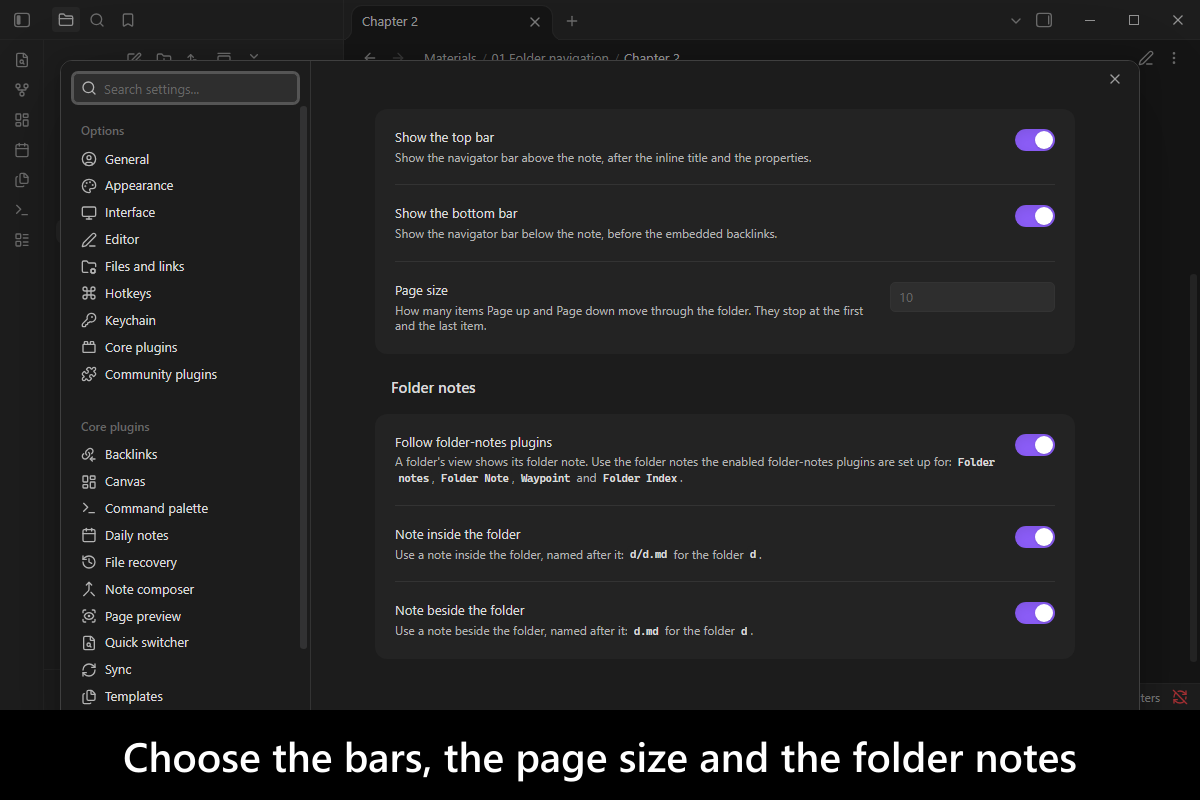
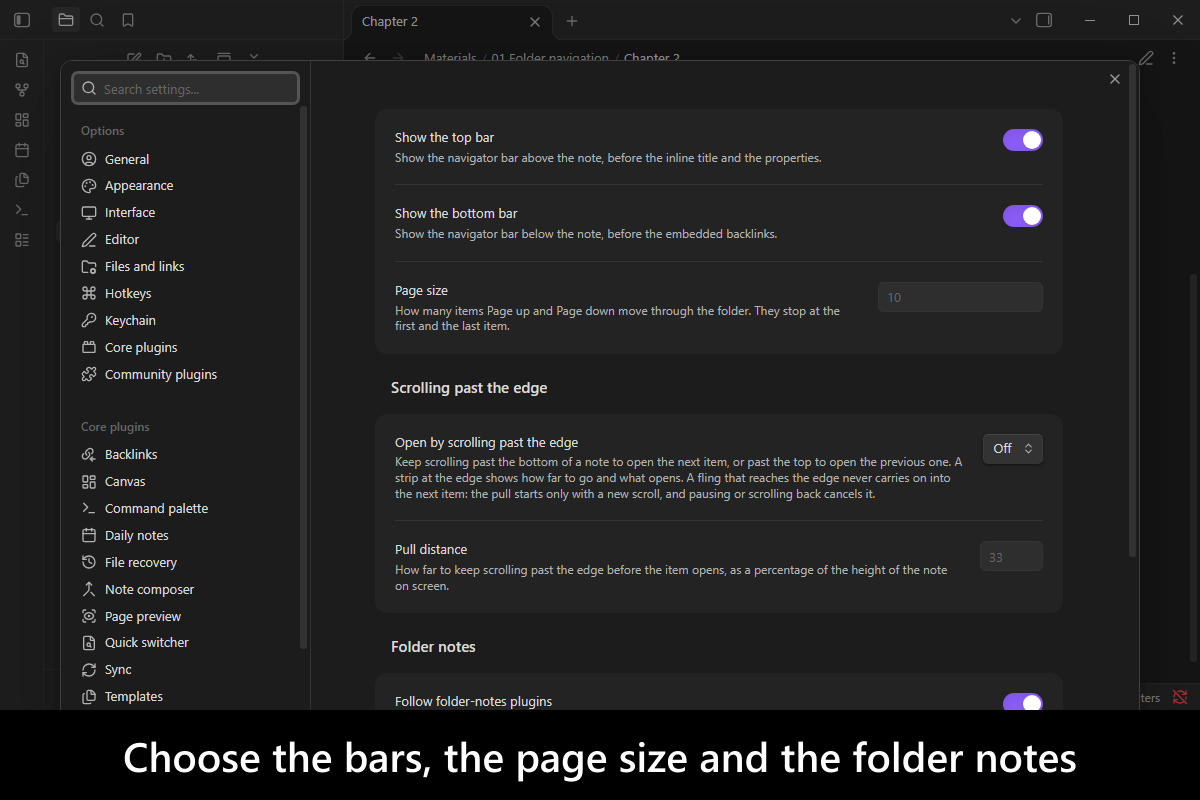
feat: put the top navigator bar above the inline title and properties
In the editor the top bar is now the first child of .cm-sizer, and in
Reading view the first child of the renderer's header, matching the
virtual folder note. The screenshots are refreshed: they had been taken
before the 06 demo note existed.

diff --git a/src/navigator-bar.cross-platform.integration.test.ts b/src/navigator-bar.cross-platform.integration.test.ts
@@ -1,6 +1,10 @@
-import type { FileExplorerView } from '@obsidian-typings/obsidian-public-latest';
+import type {
+  ConfigItem,
+  FileExplorerView
+} from '@obsidian-typings/obsidian-public-latest';
 import type { CommonArguments } from 'obsidian-integration-testing';
 
+import { setTimeout } from 'node:timers/promises';
 import {
   evalInObsidian,
   pollInObsidian
@@ -29,12 +33,14 @@ interface BarState {
   readonly bottomBarGap: number;
   readonly editorContentPadding: string;
   readonly editorOrder: string[];
+  readonly isSourceMode: boolean;
   readonly mode: string;
   readonly readingFooterOrder: string[];
   readonly readingHeaderOrder: string[];
   readonly top: BarSnapshot | null;
 }
 
+const CONFIG_SETTLE_DELAY_IN_MILLISECONDS = 500;
 const FOLDER = 'sn-bar';
 const POLL_TIMEOUT_IN_MILLISECONDS = 20_000;
 
@@ -112,14 +118,44 @@ describe('navigator bar', () => {
     let isTopBarHidden = false;
     try {
       const atFirst = await waitForState('the bars in the editor', (state) => state.top?.position === '1 / 3' && state.bottom !== null);
-      expect(atFirst.editorOrder).toStrictEqual(['inline-title', 'metadata-container', 'bar:top', 'cm-contentContainer', 'bar:bottom', 'embedded-backlinks']);
+      expect(atFirst.editorOrder).toStrictEqual(['bar:top', 'inline-title', 'metadata-container', 'cm-contentContainer', 'bar:bottom', 'embedded-backlinks']);
       // The scroll-past-end space moved from below the last line to below the bottom bar.
       expect(atFirst.editorContentPadding).toBe('0px');
       expect(atFirst.bottomBarGap).toBeLessThan(50);
       expect(atFirst.top).toStrictEqual({ disabled: ['home', 'pageUp', 'previous'], position: '1 / 3' });
 
       await clickBarButton('top', 'next');
-      await waitForState('Next from the top bar', (state) => state.activePath === `${FOLDER}/b.md` && state.top?.position === '2 / 3');
+      const atSecond = await waitForState('Next from the top bar', (state) => state.activePath === `${FOLDER}/b.md` && state.top?.position === '2 / 3');
+      expect(atSecond.editorOrder[0]).toBe('bar:top');
+
+      // The top bar stays first whatever Obsidian re-renders above the note.
+      for (
+        const [name, value] of [
+          ['showInlineTitle', false],
+          ['propertiesInDocument', 'hidden'],
+          ['readableLineLength', false],
+          ['showInlineTitle', true],
+          ['propertiesInDocument', 'visible'],
+          ['readableLineLength', true]
+        ] as const
+      ) {
+        await setConfig(name, value);
+        const afterConfig = await waitForState(`the top bar after ${name} = ${String(value)}`, (state) => state.top !== null);
+        expect(afterConfig.editorOrder.slice(0, 3)).toStrictEqual(['bar:top', 'inline-title', 'metadata-container']);
+      }
+
+      await evalInObsidian({
+        async callback({ app }): Promise<void> {
+          const view = app.workspace.getMostRecentLeaf()?.view;
+          if (!view) {
+            throw new Error('No view.');
+          }
+          await view.setState({ ...view.getState(), mode: 'source', source: true }, { history: false });
+        },
+        vaultPath
+      });
+      const sourceMode = await waitForState('the bars in Source mode', (state) => state.isSourceMode && state.top !== null);
+      expect(sourceMode.editorOrder[0]).toBe('bar:top');
 
       await evalInObsidian({
         async callback({ app }): Promise<void> {
@@ -132,7 +168,7 @@ describe('navigator bar', () => {
         vaultPath
       });
       const reading = await waitForState('the bars in Reading view', (state) => state.mode === 'preview' && state.readingHeaderOrder.includes('bar:top') && state.readingFooterOrder.includes('bar:bottom'));
-      expect(reading.readingHeaderOrder).toStrictEqual(['inline-title', 'metadata-container', 'bar:top']);
+      expect(reading.readingHeaderOrder).toStrictEqual(['bar:top', 'inline-title', 'metadata-container']);
       expect(reading.readingFooterOrder).toStrictEqual(['bar:bottom', 'embedded-backlinks']);
 
       await clickBarButton('bottom', 'next');
@@ -161,6 +197,18 @@ describe('navigator bar', () => {
         input: { folder: FOLDER },
         vaultPath
       });
+    }
+
+    async function setConfig(name: ConfigItem, value: boolean | string): Promise<void> {
+      await evalInObsidian({
+        callback({ app, name: configName, value: configValue }): void {
+          app.vault.setConfig(configName, configValue);
+        },
+        input: { name, value },
+        vaultPath
+      });
+      // Lets Obsidian re-render the note before the bars are read.
+      await setTimeout(CONFIG_SETTLE_DELAY_IN_MILLISECONDS);
     }
 
     async function setSortOrder(sortOrder: string): Promise<void> {
@@ -219,6 +267,7 @@ function readState({ app, obsidianModule }: CommonArguments): BarState {
     bottomBarGap: bottomBar ? bottomBar.getBoundingClientRect().top - contentEl.getBoundingClientRect().bottom : NaN,
     editorContentPadding: contentEl.style.paddingBottom,
     editorOrder: getChildOrder(view.editMode.sizerEl),
+    isSourceMode: view.getState().source,
     mode: view.getMode(),
     readingFooterOrder: getChildOrder(view.containerEl.querySelector(':scope .markdown-reading-view .mod-footer')),
     readingHeaderOrder: getChildOrder(view.containerEl.querySelector(':scope .markdown-reading-view .mod-header')),

diff --git a/src/navigator-bar-component.test.ts b/src/navigator-bar-component.test.ts
@@ -205,18 +205,18 @@ describe('NavigatorBarComponent', () => {
     Object.assign(testView.view, { currentMode: testView.view.previewMode });
   }
 
-  it('puts the bars right before and right after the editor\'s content once the layout is ready', () => {
+  it('puts the top bar before the inline title and the bottom bar right after the editor\'s content once the layout is ready', () => {
     const { editor } = openView();
     fixture.component.load();
     expect(getBars(editor.sizerEl)).toHaveLength(0);
 
     fixture.app.workspace.setLayoutReady__();
 
-    const top = editor.contentContainerEl.previousElementSibling;
+    const top = editor.sizerEl.firstElementChild;
     const bottom = editor.contentContainerEl.nextElementSibling;
     expect(getPlacement(top)).toBe('top');
     expect(getPlacement(bottom)).toBe('bottom');
-    expect(editor.inlineTitleEl.nextElementSibling).toBe(top);
+    expect(top?.nextElementSibling).toBe(editor.inlineTitleEl);
     // The bars changed the editor's height, so it re-measures and re-runs its bottom padding.
     expect(editor.onResize).toHaveBeenCalledTimes(1);
   });
@@ -287,13 +287,13 @@ describe('NavigatorBarComponent', () => {
     expect(unseen.editor.contentEl.style.paddingBottom).toBe(SCROLL_PAST_END_PADDING);
   });
 
-  it('ends the header and starts the footer with the bars in Reading view, and re-measures both', () => {
+  it('starts the header and the footer with the bars in Reading view, and re-measures both', () => {
     const testView = openView();
     showPreview(testView);
     loadAndRefresh();
 
     const { footerEl, headerEl, renderer } = testView.preview;
-    expect(getPlacement(headerEl.lastElementChild)).toBe('top');
+    expect(getPlacement(headerEl.firstElementChild)).toBe('top');
     expect(getPlacement(footerEl.firstElementChild)).toBe('bottom');
     expect(renderer.updateHeader).toHaveBeenCalledTimes(1);
     expect(renderer.updateFooter).toHaveBeenCalledTimes(1);
@@ -313,16 +313,29 @@ describe('NavigatorBarComponent', () => {
     await view.setMode(view.previewMode);
     expect(getBars(editor.sizerEl)).toHaveLength(0);
     const bottom = castTo<HTMLElement>(preview.footerEl.firstElementChild);
-    expect(getPlacement(preview.headerEl.lastElementChild)).toBe('top');
+    expect(getPlacement(preview.headerEl.firstElementChild)).toBe('top');
     expect(bottom.dataset['placement']).toBe('bottom');
     // The editor's scroll-past-end space does not follow the bar into Reading view.
     expect(bottom.style.getPropertyValue(SCROLL_PAST_END_CSS_PROPERTY)).toBe('');
 
     await view.setMode(view.editMode);
-    expect(getPlacement(editor.contentContainerEl.previousElementSibling)).toBe('top');
+    expect(getPlacement(editor.sizerEl.firstElementChild)).toBe('top');
     expect(editor.contentContainerEl.nextElementSibling).toBe(bottom);
     expect(getBars(preview.headerEl)).toHaveLength(0);
     expect(getBars(preview.footerEl)).toHaveLength(0);
+  });
+
+  it('puts the top bar back before the inline title when Obsidian prepends the title again', async () => {
+    const { editor, view } = openView();
+    loadAndRefresh();
+    const top = editor.sizerEl.firstElementChild;
+
+    // Showing the editor prepends the inline title to .cm-sizer.
+    editor.sizerEl.prepend(editor.inlineTitleEl);
+    await view.setMode(view.editMode);
+
+    expect(editor.sizerEl.firstElementChild).toBe(top);
+    expect(top?.nextElementSibling).toBe(editor.inlineTitleEl);
   });
 
   it('does not place bars on a mode switch of a note it has not seen yet', async () => {

diff --git a/src/navigator-bar-component.ts b/src/navigator-bar-component.ts
@@ -57,12 +57,13 @@ const SCROLL_PAST_END_CSS_PROPERTY = '--sibling-notes-scroll-past-end';
  * Puts a navigator bar above and below every open note, and keeps them current.
  *
  * Placement follows Obsidian's own inline title, properties and embedded backlinks, which a Markdown view
- * moves between its editor and its Reading view on every mode switch:
+ * moves between its editor and its Reading view on every mode switch. The top bar comes before the inline
+ * title and the properties, as it does in the virtual folder note, and the bottom bar right after the last line:
  *
- * - In the editor, the bars are children of `.cm-sizer`, right before and right after `.cm-contentContainer`.
- *   The editor puts its scroll-past-end space on the content's bottom padding, so that space is moved below
- *   the bottom bar, keeping the bar right under the last line.
- * - In Reading view, the top bar ends the renderer's header section and the bottom bar starts its footer
+ * - In the editor, the bars are children of `.cm-sizer`: the top bar its first child, the bottom bar right after
+ *   `.cm-contentContainer`. The editor puts its scroll-past-end space on the content's bottom padding, so that
+ *   space is moved below the bottom bar, keeping the bar right under the last line.
+ * - In Reading view, the top bar starts the renderer's header section and the bottom bar starts its footer
  *   section. Either section is re-measured after a change, because the renderer lays sections out by their
  *   measured heights.
  */
@@ -254,8 +255,8 @@ export class NavigatorBarComponent extends Component {
       const footerEl = renderer.footer?.el;
       bottom.el.setCssProps({ [SCROLL_PAST_END_CSS_PROPERTY]: '' });
       if (
-        headerEl && this.placeOrRemove(top.el, showTopBar, headerEl.lastElementChild === top.el, () => {
-          headerEl.append(top.el);
+        headerEl && this.placeOrRemove(top.el, showTopBar, headerEl.firstElementChild === top.el, () => {
+          headerEl.prepend(top.el);
         })
       ) {
         renderer.updateHeader();
@@ -271,12 +272,13 @@ export class NavigatorBarComponent extends Component {
     }
 
     const editView = view.editMode;
+    const { sizerEl } = editView;
     const contentContainerEl = editView.cm.contentDOM.parentElement;
     if (!contentContainerEl) {
       return;
     }
-    const isTopChanged = this.placeOrRemove(top.el, showTopBar, contentContainerEl.previousElementSibling === top.el, () => {
-      contentContainerEl.before(top.el);
+    const isTopChanged = this.placeOrRemove(top.el, showTopBar, sizerEl.firstElementChild === top.el, () => {
+      sizerEl.prepend(top.el);
     });
     const isBottomChanged = this.placeOrRemove(bottom.el, showBottomBar, contentContainerEl.nextElementSibling === bottom.el, () => {
       contentContainerEl.after(bottom.el);

diff --git a/src/plugin-settings-tab.ts b/src/plugin-settings-tab.ts
@@ -21,7 +21,7 @@ export class PluginSettingsTab extends PluginSettingsTabBase<PluginSettings> {
   protected override getSettingDefinitionItems(): SettingDefinitionItem[] {
     return [
       this.settingEx({
-        desc: 'Show the navigator bar above the note, after the inline title and the properties.',
+        desc: 'Show the navigator bar above the note, before the inline title and the properties.',
         name: 'Show the top bar',
         render: (setting) => {
           setting.addToggle((toggle) => {

diff --git a/src/plugin-settings.ts b/src/plugin-settings.ts
@@ -61,7 +61,7 @@ export class PluginSettings {
   public showBottomBar = true;
 
   /**
-   * Whether the navigator bar shows above the note, after the inline title and the properties.
+   * Whether the navigator bar shows above the note, before the inline title and the properties.
    */
   public showTopBar = true;
 }

diff --git a/AGENTS.md b/AGENTS.md
@@ -68,8 +68,8 @@ Checked against the `obsidian-typings` branch `release/obsidian-public/1.14.4`. 
 - **Order:** `FileExplorerView.getSortedFolderItems(folder)`, with `sortOrder` and `requestSort` beside it. Checked live on 1.14.4: it returns the subfolders too, folders first in every sort order, although the typings declare file items only. Name order compares case-insensitively and numerically, so `b 9` comes before `b 10`. Disabling the File explorer removes its leaves at once. The custom-sort plugins (`Custom File Explorer sorting`, `Flexplorer`) patch this exact method, so it returns what the user sees. Recompute it on every use. Fall back to name order when the File explorer is disabled or its view is not loaded. `AppVaultConfig.fileSortOrder` is too loosely typed to rely on.
 - **Where the bars go**, checked live on 1.14.4 desktop and Android:
   - A `MarkdownView` owns one `inlineTitleEl`, one `metadataEditor.containerEl` and one `backlinksEl`, and moves them on every mode switch. `editMode.show()` prepends the title and properties to `editMode.sizerEl` (`.cm-sizer`) and appends the backlinks. `previewMode.show()` appends the title and properties to `renderer.header.el` (`.mod-header`) and the backlinks to `renderer.footer.el` (`.mod-footer`). So the bars are re-placed after `MarkdownView.setMode`, which the component patches.
-  - In the editor the bars go right before and after `.cm-contentContainer` (`cm.contentDOM.parentElement`). `updateBottomPadding` puts the scroll-past-end space on `cm.contentDOM`'s bottom padding, above anything after the content, so the component patches it on the edit view's prototype and moves that space below the bottom bar through `--sibling-notes-scroll-past-end`.
-  - In Reading view the top bar is appended to the header and the bottom bar prepended to the footer, then `renderer.updateHeader()` / `updateFooter()` re-measure the section. `obsidian-typings` declares those four renderer members since `obsidian-public-1.14.4` 1.13.0.
+  - In the editor the top bar is the first child of `.cm-sizer`, above the inline title and the properties, and the bottom bar goes right after `.cm-contentContainer` (`cm.contentDOM.parentElement`). `updateBottomPadding` puts the scroll-past-end space on `cm.contentDOM`'s bottom padding, above anything after the content, so the component patches it on the edit view's prototype and moves that space below the bottom bar through `--sibling-notes-scroll-past-end`.
+  - In Reading view the top bar is prepended to the header, above the inline title and the properties, and the bottom bar prepended to the footer, then `renderer.updateHeader()` / `updateFooter()` re-measure the section. `obsidian-typings` declares those four renderer members since `obsidian-public-1.14.4` 1.13.0.
   - `FileExplorerView.sort()` runs after every sort-order change and every `requestSort`, so the component patches it to refresh the bars.
 - **The bottom sheet's header**, checked in the 1.14.4 bundle and live on Android: `Modal` builds `modalEl` > close button (`.modal-header-button`, absolutely placed `--size-4-3` from the top and `--size-4-4` from the end, `--touch-size-m` square on a phone), then `headerEl` (`.modal-header`) > `titleEl`, then `contentEl`. On a phone the header keeps its padding even with an empty title, so a header built in `contentEl` costs a second row. The sheet therefore sets the title with `setTitle` and puts the pin into `headerEl` (declared by `obsidian-typings`), and its CSS sizes that row to the close button and ends it before the button.
 - **The virtual folder note's header:** `WorkspaceLeaf.updateHeader()` updates the tab title but not the view header's `ItemView.titleEl`, which is written once when the view opens, before it has a state. So the view sets `titleEl` itself on every refresh.

diff --git a/demo-vault/03 Navigator bar.md b/demo-vault/03 Navigator bar.md
@@ -1,6 +1,6 @@
 # Navigator bar
 
-`Sibling Notes` puts a navigator bar above every note, after the inline title and the properties, and another below it, before the embedded backlinks. Both scroll with the note. They show in Live Preview, Source mode and Reading view, and on a subfolder's [virtual folder note](<./04 Virtual folder note.md>), on desktop and on mobile.
+`Sibling Notes` puts a navigator bar above every note, before the inline title and the properties, and another below it, before the embedded backlinks. Both scroll with the note. They show in Live Preview, Source mode and Reading view, and on a subfolder's [virtual folder note](<./04 Virtual folder note.md>), on desktop and on mobile.
 
 Open `Chapter 2` to see them.
 
@@ -13,7 +13,7 @@ await require('/demoSetup.ts').openMaterial(app, 'Chapter 2.md');
 
 Manual equivalent: click `Chapter 2` in the File explorer, inside `Materials/01 Folder navigation/`.
 
-The top bar sits right under the title. `Chapter 2` is long enough to scroll on most screens, so scroll to its end for the bottom bar: it carries the same buttons, so you can step on without scrolling back up.
+The top bar sits right above the title. `Chapter 2` is long enough to scroll on most screens, so scroll to its end for the bottom bar: it carries the same buttons, so you can step on without scrolling back up.
 
 ## What the buttons do
 

diff --git a/demo-vault/02 Settings.md b/demo-vault/02 Settings.md
@@ -7,7 +7,7 @@ Find them in Obsidian under **Settings → Community plugins → `Sibling Notes`
 ## General
 
 - `showTopBar`
-  - `true` or `false`, `true` by default, shown in the settings tab as **Show the top bar**. Whether the navigator bar shows above the note, after the inline title and the properties. See [03 Navigator bar](<./03 Navigator bar.md>).
+  - `true` or `false`, `true` by default, shown in the settings tab as **Show the top bar**. Whether the navigator bar shows above the note, before the inline title and the properties. See [03 Navigator bar](<./03 Navigator bar.md>).
 - `showBottomBar`
   - `true` or `false`, `true` by default, shown in the settings tab as **Show the bottom bar**. Whether the navigator bar shows below the note, before the embedded backlinks.
 - `pageSize`
